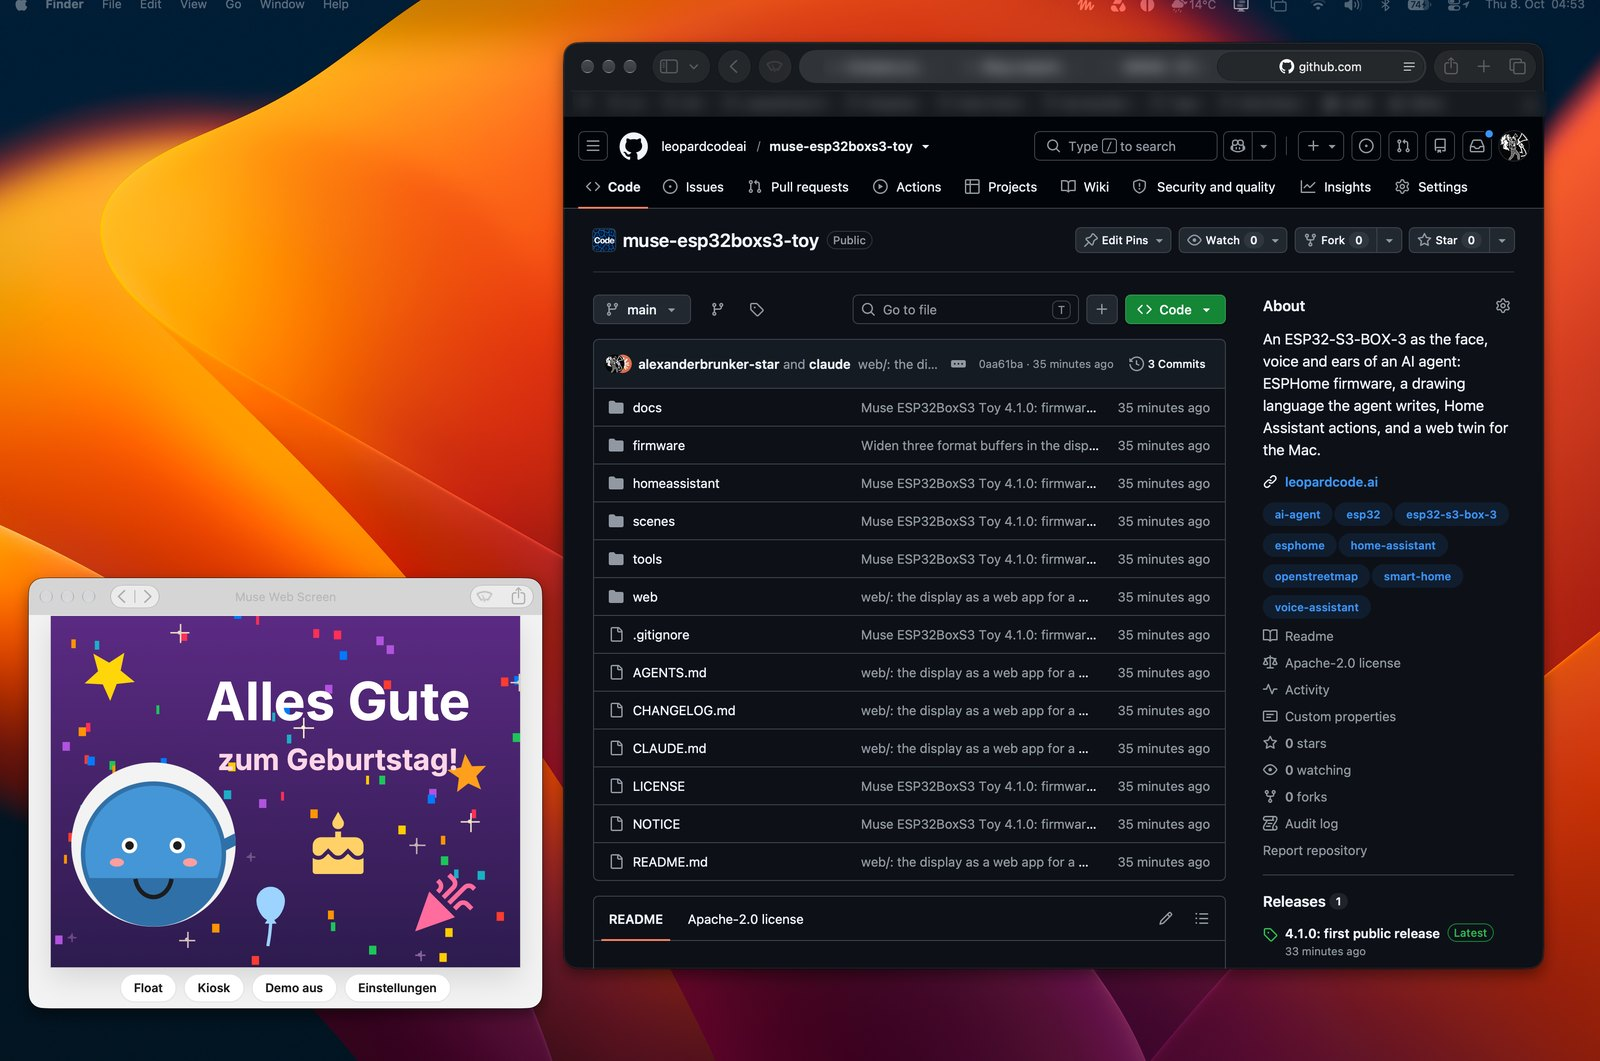
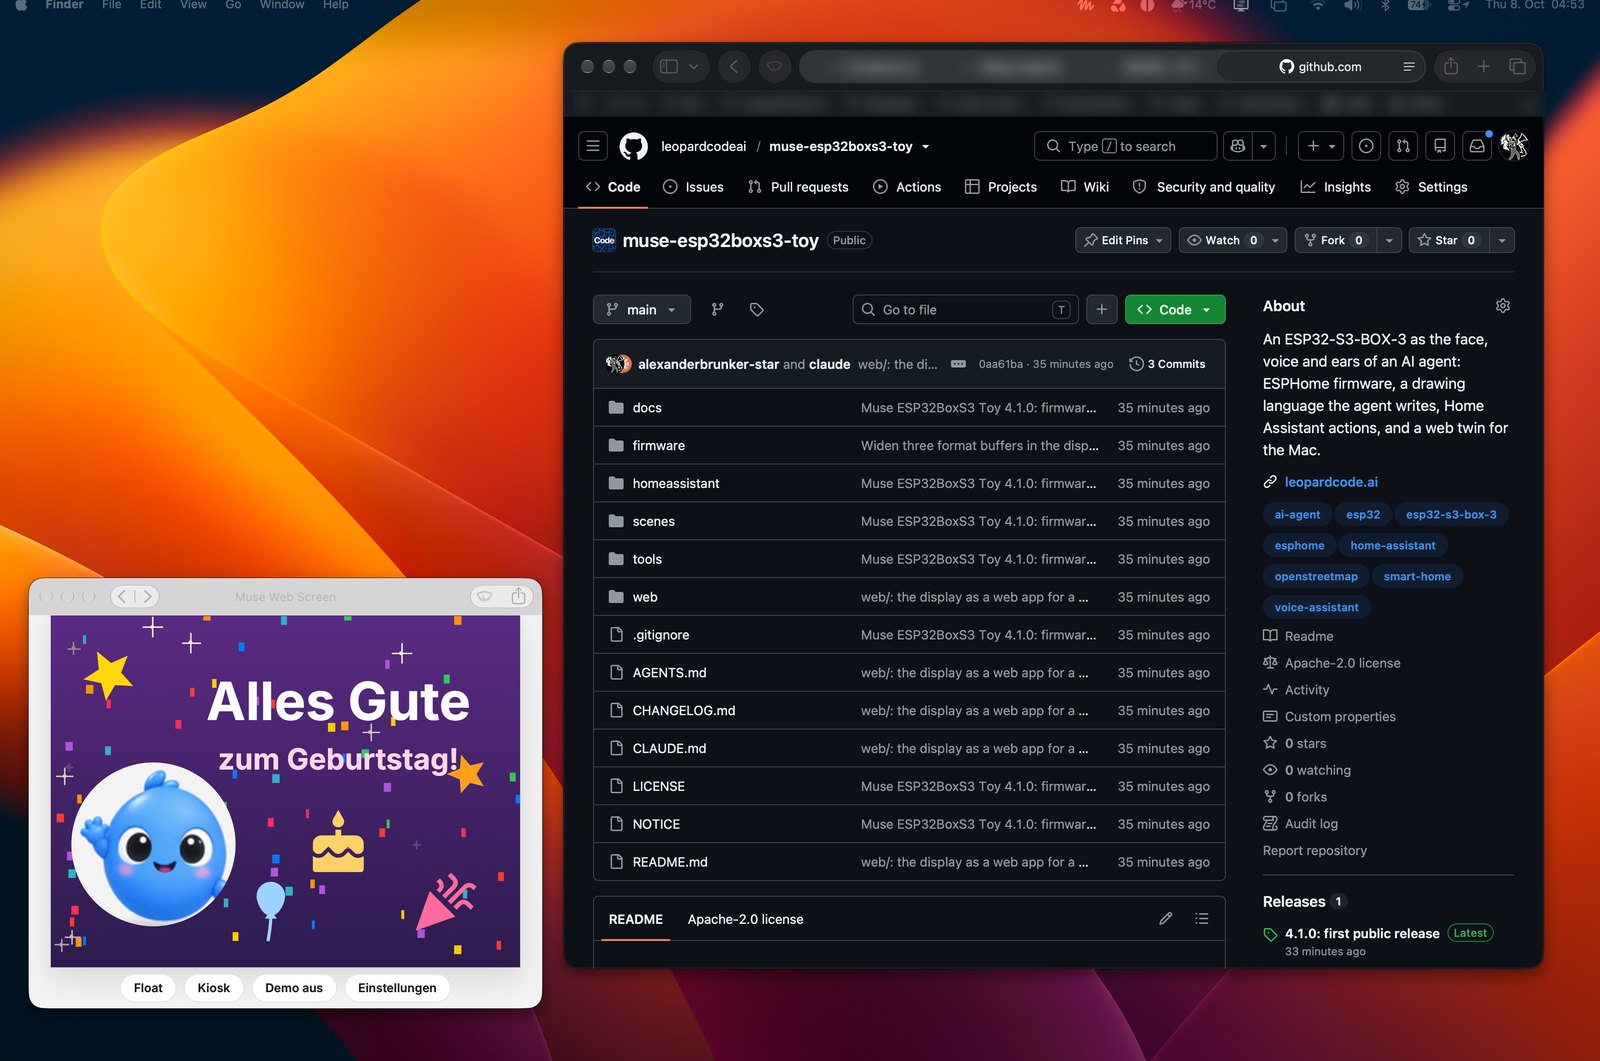
Mac screenshots with the project's current figure: the display area rendered again by Muse Web Screen

diff --git a/README.md b/README.md
@@ -77,7 +77,7 @@ Every picture below was rendered from the scene files in [`scenes/`](scenes/) by
 <p align="center"><img src="docs/screens/mac-desktop.jpg" width="900" alt="A Mac desktop: Muse Web Screen as an app window with a birthday scene beside the repository on GitHub"></p>
 <p align="center">How to set it up as an app with your own figure and icon, borderless and on top: <a href="docs/MAC_APP.md">docs/MAC_APP.md</a>.</p>
 <p align="center"><img src="docs/screens/mac-windows.jpg" width="900" alt="Three Muse Web Screen windows: a menu scene with four buttons, a birthday scene, a reminder card"></p>
-<p align="center"><sub>Screenshots of 8 October 2026, taken shortly before the repository was renamed; tab titles and bookmarks blurred. They still show the flat figure the project drew in code before its generated one. Meta's Muse artwork is not part of this repository; on your own Mac you can show your own frames (web/README.md).</sub></p>
+<p align="center"><sub>Screenshots of 8 October 2026, taken shortly before the repository was renamed; tab titles and bookmarks blurred. The display area was rendered again afterwards with the project's current figure, by Muse Web Screen itself (same scene, same card, clock fixed to 04:53), and set into the window; everything around it is the original screenshot. Meta's Muse artwork is not part of this repository; on your own Mac you can show your own frames (web/README.md).</sub></p>
 
 What the renderer cannot show is the box itself: a real one shows Meta's Muse figure if you own the Muse app (see [Make it yours](#make-it-yours)), the photos and live views of your own cameras, and the voice. Photos of the box in a real house are welcome as pull requests to `docs/photos/`.
 
